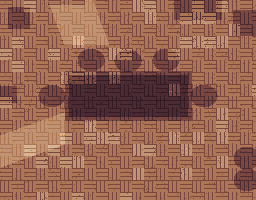
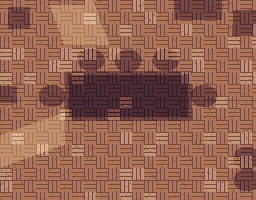
Комната: пятна побелки реже — издалека они читались как снег

diff --git a/tools/art/room3d.py b/tools/art/room3d.py
@@ -1106,7 +1106,7 @@ def m2t(x, y, x0, y0, s=S, flip_y=True, hgt=HGT):
 def wall_factory(width_m, side=0):
     w, h = round(width_m / S), round(HGT / S)
     t = Tex(w, h, 44)
-    t.blotch(0, 0, w - 1, h - 1, 45, 2, 0.012)
+    t.blotch(0, 0, w - 1, h - 1, 45, 3, 0.0035)  # редкие светлые пятна побелки — чаще выглядели как снег
     t.noise(0, 0, w - 1, h - 1, 43, 0.004)
     t.rect(0, 0, w - 1, 1, 43)  # у потолка
     panel = h - round(1.0 / S)  # верх панели на метре
